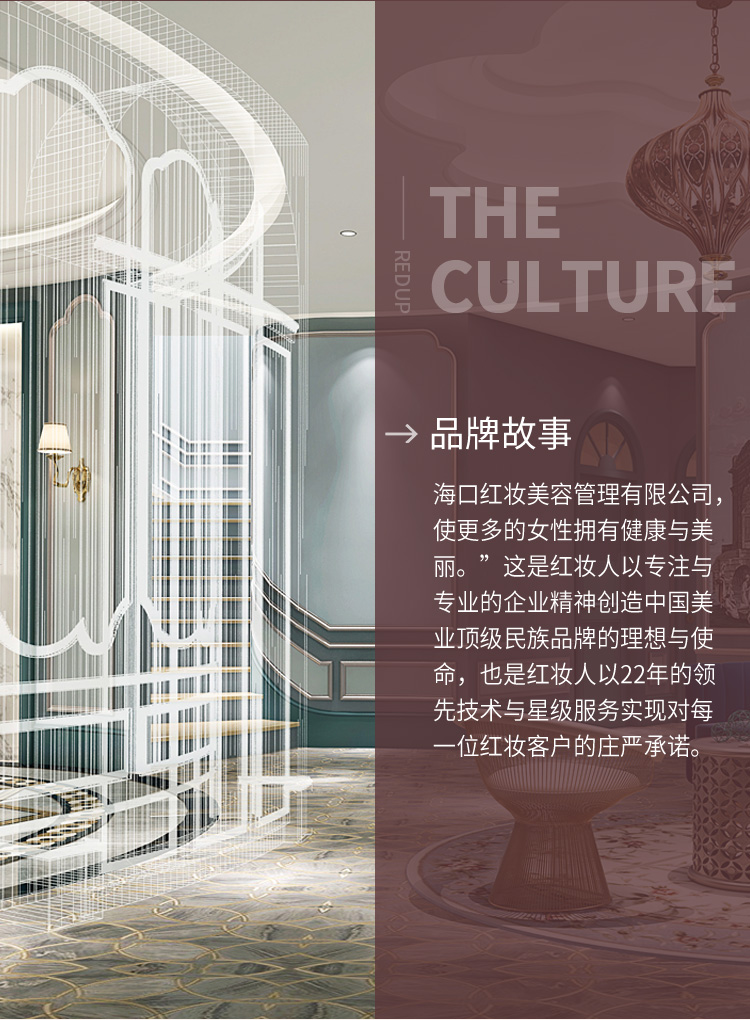
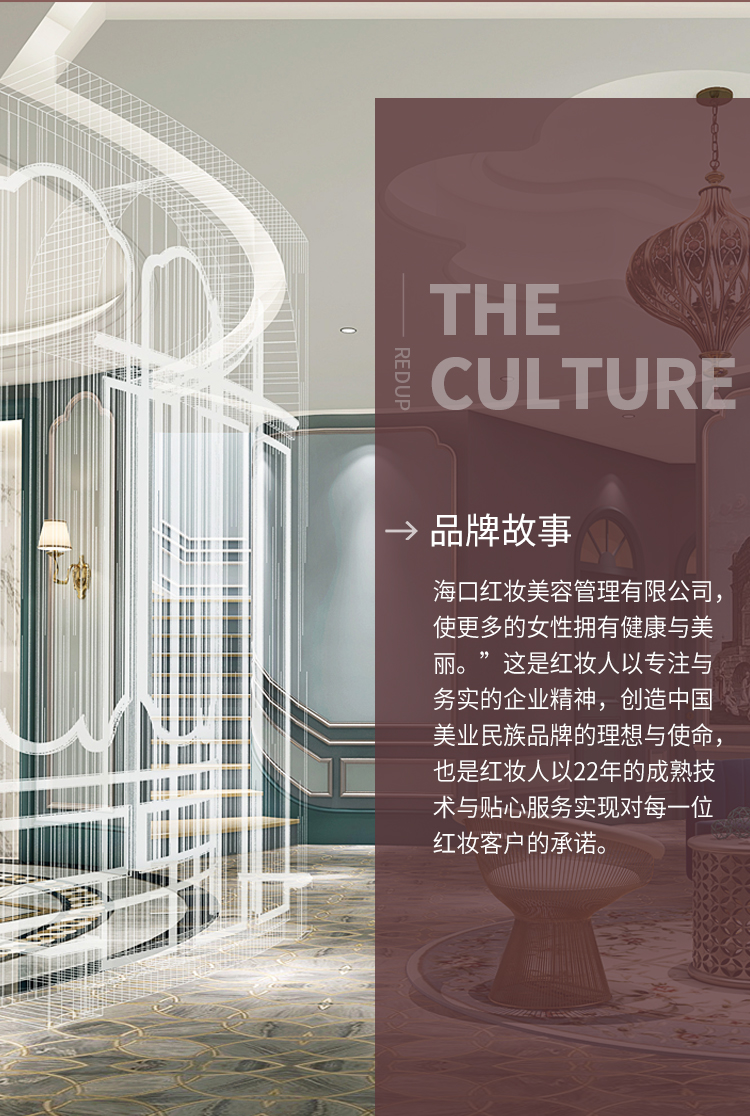
品牌禁词修改
品牌禁词修改

diff --git a/www.hoozonspa.com/templets/default/index_brand.htm b/www.hoozonspa.com/templets/default/index_brand.htm
@@ -45,12 +45,12 @@
         <div class="wraper">
             <h2><span class="sr-only">红妆美业</span></h2>
             <p>始于一九九六年，是海南美容界的一面旗帜，
-也是数万名海岛女性的信赖选择。<br>
-二十多年来秉承着“用爱心托起美丽”的理
-念，专注“智能美颜、科技瘦身、艺术纹绣、光电美肤、养生SPA”五大核心品项，植根
-海南，辐射全岛，迅速发展成为遍布海口、
+也是数万名海岛女性的安心选择。<br>
+二十多年来,秉承着“用爱心托起美丽”的理
+念，专注“智能美颜、科技瘦身、艺术纹绣、光电美肤、养生SPA”五大品项，植根
+海南，辐射全岛，发展成为遍布海口、
 琼海、儋州、三亚、陵水等五大城市，拥有
-23家机构的臻雅美业连锁。</p>
+23家机构的美业连锁。</p>
         </div>
         <!-- <p class="bigtxt">redup</p> -->
          <p class="bigtxt"><img src="{dede:global.cfg_imgpath/}/bigtxt_project.png"></p>
@@ -110,7 +110,7 @@
             <p class="special">愿景：铸就健康美业百年企业</p>
             <p>宗旨：一百年只做一件事，使更多的女性拥有健康和美丽</p>
             <p>使命：汇聚平凡力量 挺起美业脊梁</p>
-            <p>定位：海南美业旗舰品牌</p>
+            <p>定位：海南美业品牌</p>
             <p>服务理念：热诚的心，温暖的笑，真挚的爱，深切的情</p>
         </div>
         <p class="bigtxt"><img src="{dede:global.cfg_imgpath/}/bigtxt_bedroom.png"></p>

diff --git a/m.hoozonspa.com/templets/default/index_chanping.htm b/m.hoozonspa.com/templets/default/index_chanping.htm
@@ -70,7 +70,7 @@
                 {dede:arclist typeid='282' row='1' orderby='weight' orderway='desc' titlelen="120" infolen='30' addfields='pic3' channelid='20' limit='0,1' flag='c'} -->
                 <div class="item">
                     <a href="/chanping/product11/"><img src="/statics/images/series11.jpg" alt="奥碧虹雅思璀璨晶钻系列"></a>
-                    <p>奥碧虹雅思璀璨晶钻系列</p>
+                    <p>奥碧虹雅思臻璨晶钻系列</p>
                 </div>
               <!--  {/dede:arclist} -->
                 <div class="row" style="display: none;">

diff --git a/m.hoozonspa.com/templets/default/article_project.htm b/m.hoozonspa.com/templets/default/article_project.htm
@@ -94,7 +94,8 @@
                     </div>
                 </div>
                 <!-- home project -->
-                {dede:include filename="_home_project.htm"/}
+                <!-- {dede:include filename="_home_project.htm"/} -->
+
                 <!-- the way -->
                 {dede:include filename="_theway.htm"/}
                 {dede:include filename="_sj_copyright.htm"/}

diff --git a/www.hoozonspa.com/static/css/site.css b/www.hoozonspa.com/static/css/site.css
@@ -2730,8 +2730,8 @@ a {
 }
 .newslist .g-doc .pageindex ul li {
     display: inline-block;
-    width: 38px;
     height: 38px;
+    min-width: 38px;
 
     font-size: 18px;
     line-height: 38px;

diff --git a/m.hoozonspa.com/include/extend.func.php b/m.hoozonspa.com/include/extend.func.php
@@ -108,3 +108,71 @@ function get_list_chanpings($typeid)
   }
     return $relateproject;
 }
+//后台上传图片链接处理
+function replaceurl($newurl)
+{
+$newurl=str_replace('/uploads/','https://uploads.hzshuangmei.com/',$newurl);
+return $newurl;
+}
+/**
+*  项目详情页(推荐家居产品2条)
+*  根据当前项目的ID，获取相关最新的推荐
+* @param     $typeid    所在栏目ID
+*/
+function getHomeFurnish($typeid)
+{
+global $dsql;
+$relateproject="";
+$relatetypeid = 0;
+switch ($typeid)
+{
+case 78 :
+$relatetypeid= 3;
+break;
+case 77 :
+$relatetypeid=3 ;
+break;
+case 79:
+$relatetypeid=3;
+break;
+case 80:
+$relatetypeid=3;
+break;
+case 81:
+$relatetypeid=3;
+break;
+case 82 :
+$relatetypeid= 3;
+break;
+case 83 :
+$relatetypeid= 5;
+break;
+case 85 :
+$relatetypeid= 4;
+break;
+case  86 :
+$relatetypeid=7;
+break;
+default:
+$relatetypeid=3 ;
+
+}
+$dsql->SetQuery( "SELECT  * FROM #@__archives AS a
+where  a.typeid='$relatetypeid'  and a.arcrank=0 order by id desc limit 2");
+$dsql->Execute();
+$ns = $dsql->GetTotalRow();
+while($row=$dsql->GetArray())
+{
+$id = $row["id"];
+$title = cn_substr($row["title"],80,0);
+$urlarray = GetOneArchive($id);
+$url = $urlarray['arcurl'];
+
+$litpic =replaceurl($row["litpic"]);
+$relateproject.='<li class="expert"><a href="https://www.hzshuangmei.com'.$url.'" target="_blank" rel="nofollow"><span class="thumbnail"><img src="'.$litpic.'" alt="'.$title.'"></span><span class="expertSpan line-limit-length">'.$title.'</span></a></li>';
+}
+if($ns>0){
+$relateproject=$relateproject;
+}
+return $relateproject;
+}
